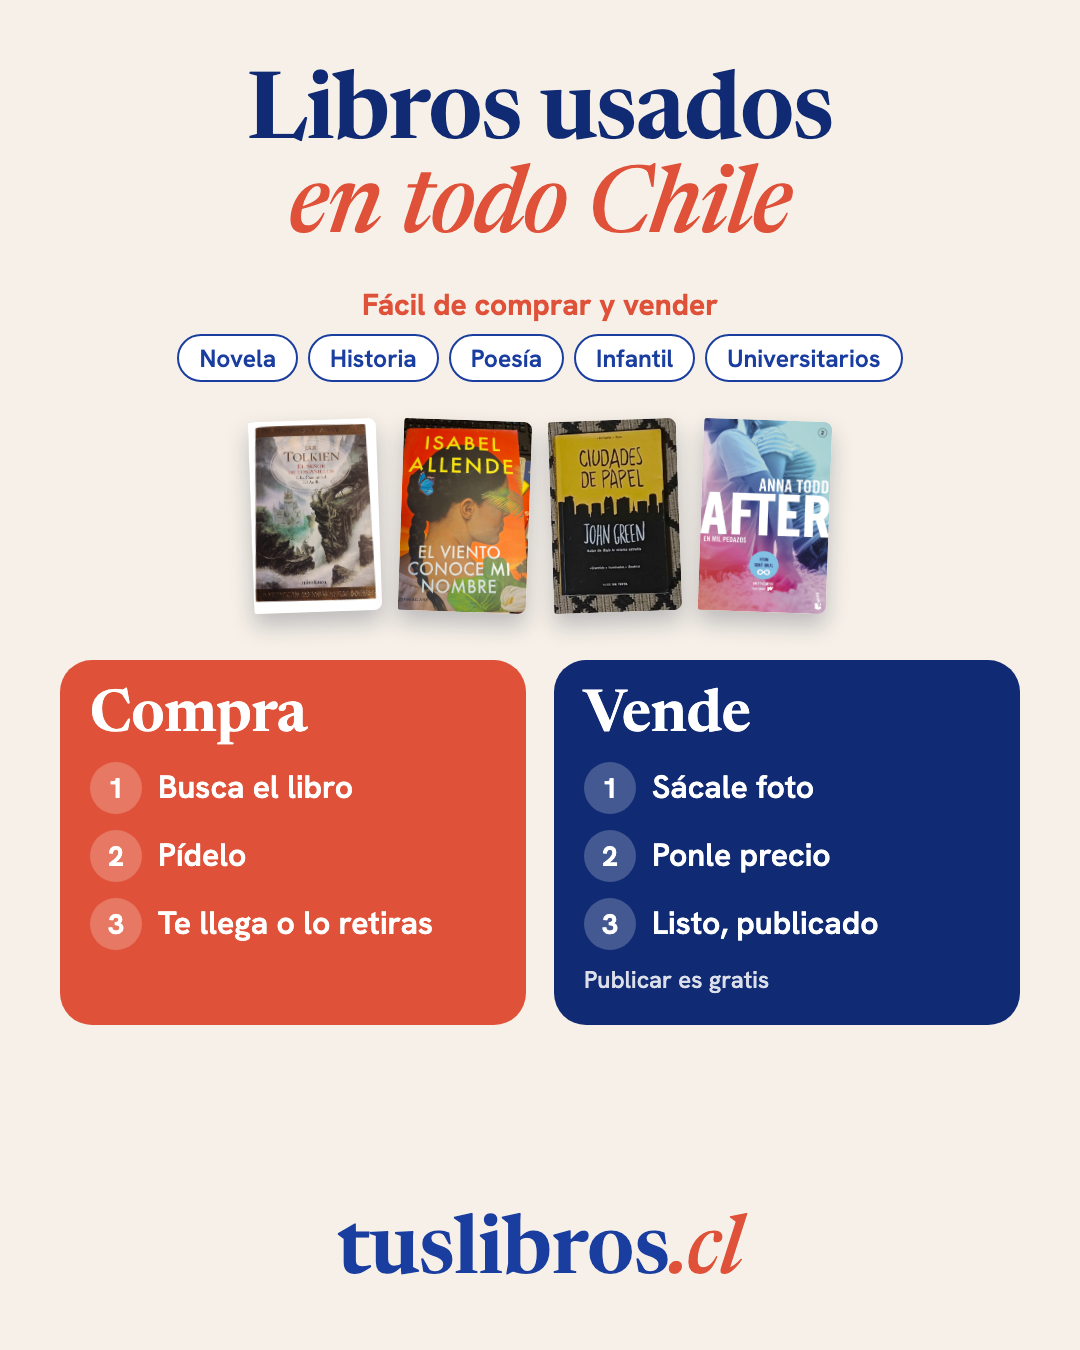
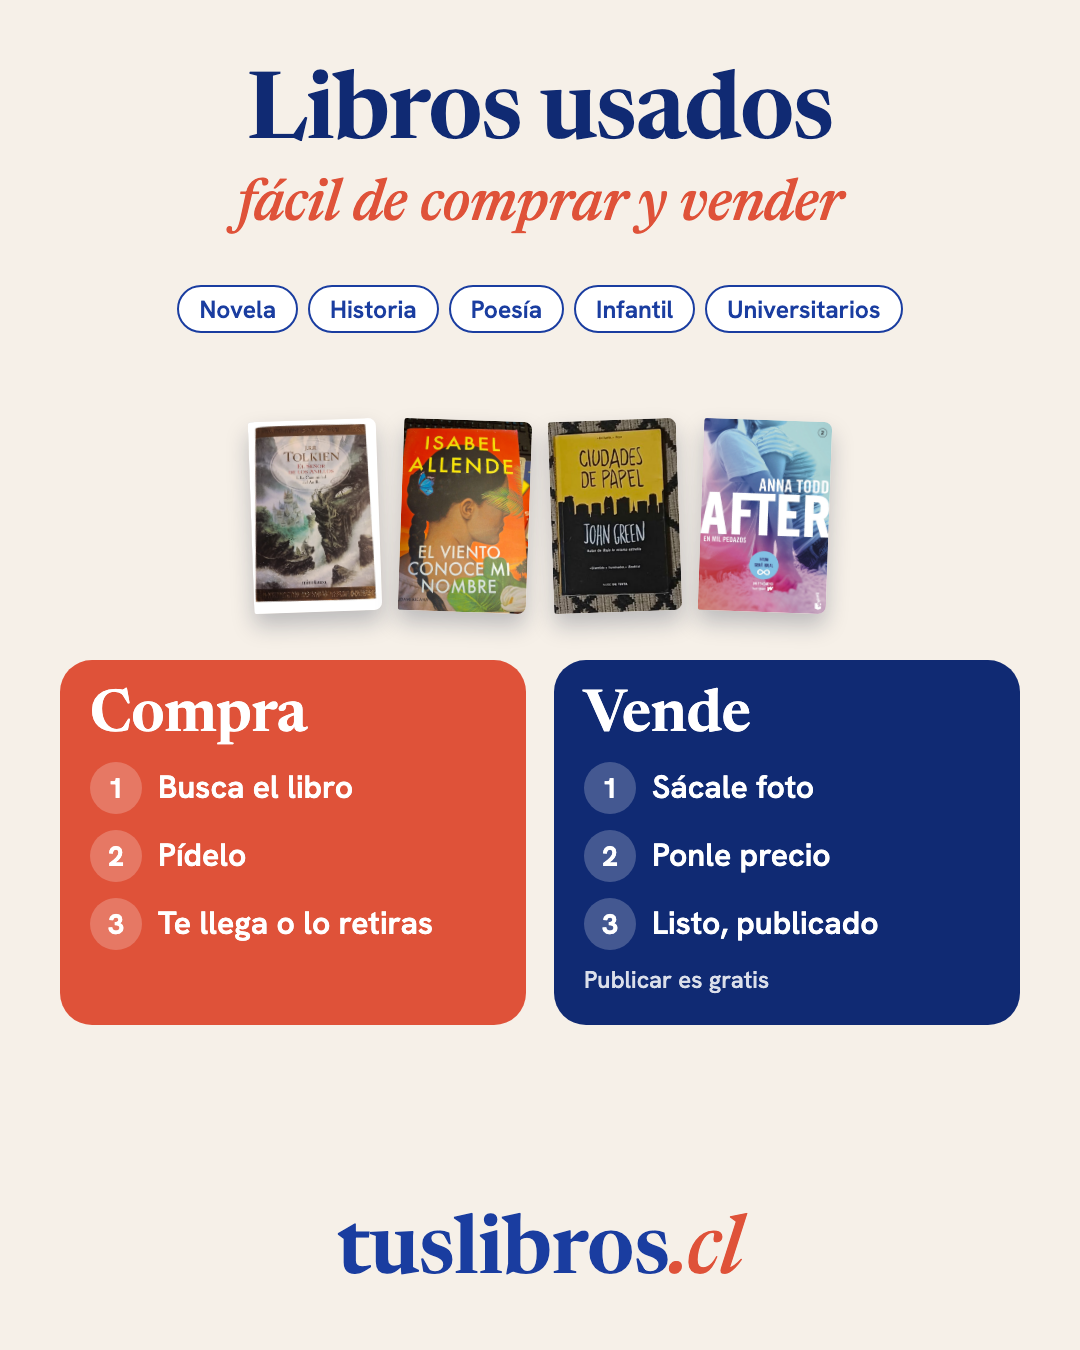
docs(piezas): difusión — sin «en todo Chile» y segunda pieza para el clic (iteración 3)

Changed region(s): [[0.1528, 0.2178, 0.825, 0.28], [0.2139, 0.1244, 0.7944, 0.1867]]

diff --git a/docs/piezas/difusion_amiga_2026-09-27.html b/docs/piezas/difusion_amiga_2026-09-27.html
@@ -18,7 +18,7 @@
   .grupo{width:1080px;height:1350px}
   .serif{font-family:Newsreader,serif}
   .titulo{text-align:center;font-family:Newsreader,serif;font-weight:600;line-height:1.02;letter-spacing:-1px}
-  .titulo i{color:#DF5239;font-weight:500}
+  .titulo i{color:#DF5239;font-weight:500;font-size:.62em;display:block;margin-top:14px;letter-spacing:0}
   .cifra{text-align:center;font-size:34px;color:#5a5f70;font-weight:500}
   .cifra .facil{font-weight:700;color:#DF5239;margin-bottom:14px}
   .chips{display:flex;justify-content:center;flex-wrap:wrap;gap:10px}
@@ -67,8 +67,8 @@
 </style></head><body>
 
 <template id="contenido">
-  <h1 class="titulo">Libros usados<br><i>en todo Chile</i></h1>
-  <div class="cifra"><p class="facil">Fácil de comprar y vender</p><div class="chips"><span>Novela</span><span>Historia</span><span>Poesía</span><span>Infantil</span><span>Universitarios</span></div></div>
+  <h1 class="titulo">Libros usados<br><i>fácil de comprar y vender</i></h1>
+  <div class="cifra"><div class="chips"><span>Novela</span><span>Historia</span><span>Poesía</span><span>Infantil</span><span>Universitarios</span></div></div>
   <div class="tapas">
     <img src="https://tfaqvnsdasaegkcahaal.supabase.co/storage/v1/object/public/covers/57283db7-3465-427d-a849-15adedf6ce65/c391932a-74f3-4054-aae2-c6081ac4a7ad/1783739386181-fhdm61meybl.jpg" alt="El Señor de los Anillos">
     <img src="https://api.tuslibros.cl/storage/v1/object/public/covers/ab2de6fc-ce4f-49a8-b70a-bccba9d201bd/1789325524768.jpg" alt="Isabel Allende">
@@ -91,6 +91,14 @@
 
 <section class="pieza estado" id="estado"></section>
 <section class="pieza grupo" id="grupo"></section>
+<!-- SEGUNDA: la que invita a tocar el link (va justo después en el estado) -->
+<section class="pieza estado" id="clic" style="background:#DF5239;color:#fff">
+  <h1 class="titulo" style="position:absolute;top:380px;left:50px;right:50px;font-size:118px;color:#fff">¿Buscas<br>un libro<br>o vendes<br>los tuyos?</h1>
+  <p style="position:absolute;top:960px;left:0;right:0;text-align:center;font-family:Newsreader,serif;font-style:italic;font-size:110px">Entra aquí</p>
+  <svg viewBox="0 0 100 160" style="position:absolute;left:50%;transform:translateX(-50%);top:1130px;width:170px;height:270px" fill="none" stroke="#fff" stroke-width="12" stroke-linecap="round" stroke-linejoin="round"><path d="M50 8v136M12 106l38 40 38-40"/></svg>
+  <div style="position:absolute;left:120px;right:120px;bottom:210px;background:#fff;color:#102A73;border-radius:999px;padding:34px 0;text-align:center;font-family:Newsreader,serif;font-weight:600;font-size:92px;box-shadow:0 16px 34px rgba(0,0,0,.2)">tuslibros<i style="color:#DF5239;font-weight:500">.cl</i></div>
+</section>
+
 <script>
   const t = document.getElementById("contenido");
   for (const id of ["estado", "grupo"]) document.getElementById(id).appendChild(t.content.cloneNode(true));

diff --git a/docs/TABLERO_SESION_2026_09_24.md b/docs/TABLERO_SESION_2026_09_24.md
@@ -167,7 +167,7 @@ Precios y pisos en `docs_desde_claude/PISOS_LIBROS_VERO_2026-09.md` (privado: el
 - 24-09 — sección creada a pedido de Vero, a partir de su captura de Mercado Libre.
 - 27-09 — **Piezas de psicología hechas** (pedido de Vero): `docs/piezas/psicologia_compradores_2026-09-27.png` («¿Cuánto cuesta entender a Freud?», con portadas reales de Freud, Jung, Piaget y Maturana) y `psicologia_vendedores_2026-09-27.png` («¿Tus libros de la U siguen en la repisa?», 330 búsquedas en 90 días contra 40 libros). Cifras de la base, fuente en el HTML. **Ojo:** ninguno de los 10 libros de psicología o psiquiatría marcados como vendidos tuvo una orden pagada en el sitio (los marcó el vendedor), así que la pieza no dice «se vendieron acá». Rorschach: no hay en el catálogo ni nadie lo buscó en 180 días; lo más cercano es *Técnicas proyectivas del diagnóstico psicológico* (Anderson y Anderson, $15.000, nicolas). Además, dos **estados de WhatsApp 9:16** con el mínimo de texto: `psicologia_estado_compra_2026-09-27.png` («Psicología usada» + 4 portadas) y `psicologia_estado_venta_2026-09-27.png` («¿Tienes libros de psicología? Véndelos.» + tuslibros.cl/vender).
 - 27-09 — **Estados generales del sitio** (lo que Vero quería de verdad: que cualquiera sepa que existe): `docs/piezas/general_estado_compra_2026-09-27.png` («4.000+ libros usados», 6 portadas reales, «Compra aquí · tuslibros.cl») y `general_estado_vende_2026-09-27.png` («Vende tus libros», Foto · Precio · Listo, «Vende aquí · tuslibros.cl/vender»). Hoy hay 4.186 libros activos, de 165 vendedores y en 74 ciudades. Y una **genérica** que junta las dos: `general_estado_generica_2026-09-27.png` («4.000+ libros usados», 6 portadas, botones «Compra» y «Vende», tuslibros.cl).
-- 27-09 — **Kit de difusión para una amiga de Vero** (estados y grupos de WhatsApp; la gente no entendía qué es ni cómo funciona): `docs/piezas/difusion_estado_2026-09-27.png` (9:16) y `difusion_grupo_2026-09-27.png` (4:5). «Libros usados en todo Chile» · 4.000+ libros · 165 vendedores · 74 ciudades · Compra (Busca el libro · Pídelo · Te llega o lo retiras) · Vende (Sácale foto · Ponle precio · Listo, publicado · Publicar es gratis) · tuslibros.cl. «Pídelo» en vez de «Paga ahí mismo»: no todos los vendedores cobran en el sitio. **En iteración con Vero.** Iteración 2: la línea de cifras pasó a «Fácil de comprar y vender» + categorías con stock real (Novela, Historia, Poesía, Infantil, Universitarios).
+- 27-09 — **Kit de difusión para una amiga de Vero** (estados y grupos de WhatsApp; la gente no entendía qué es ni cómo funciona): `docs/piezas/difusion_estado_2026-09-27.png` (9:16) y `difusion_grupo_2026-09-27.png` (4:5). «Libros usados en todo Chile» · 4.000+ libros · 165 vendedores · 74 ciudades · Compra (Busca el libro · Pídelo · Te llega o lo retiras) · Vende (Sácale foto · Ponle precio · Listo, publicado · Publicar es gratis) · tuslibros.cl. «Pídelo» en vez de «Paga ahí mismo»: no todos los vendedores cobran en el sitio. **En iteración con Vero.** Iteración 2: la línea de cifras pasó a «Fácil de comprar y vender» + categorías con stock real (Novela, Historia, Poesía, Infantil, Universitarios). Iteración 3: fuera «en todo Chile» (no aporta); el título queda «Libros usados · fácil de comprar y vender». Y la **segunda pieza** para el estado, la del clic: `difusion_clic_2026-09-27.png` («¿Buscas un libro o vendes los tuyos? Entra aquí ↓ tuslibros.cl»), para ponerla justo después con el link escrito en el texto.
 - 24-09 — captura de **Top10Books** (`/ofertas`): menú por uso (literatura complementaria, técnico y universitario, textos escolares, ofertas), filtro por tramos de precio con conteo ("Hasta $9.900 (17)"), filtro por autor con conteo, etiqueta de % de descuento y "Entrega mañana" en cada libro. Nuestro listado ya filtra por precio (mínimo y máximo) y autor, pero a mano, sin tramos ni conteos. Lo que más sirve es la idea 6f.
 
 ---
